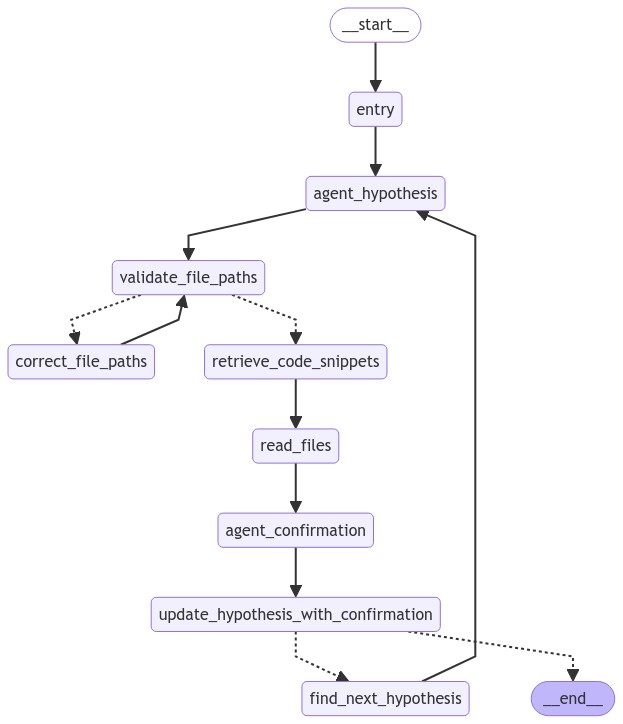
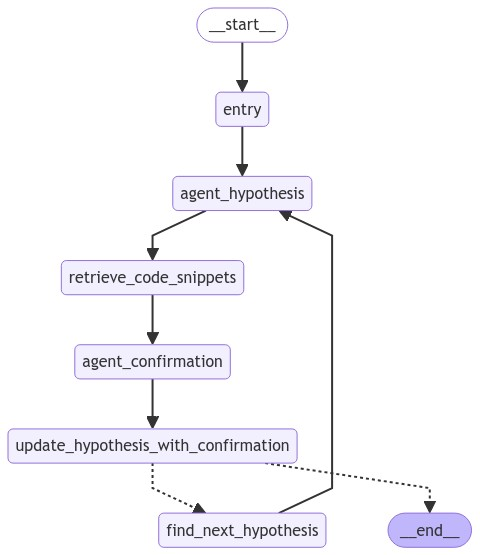
modify agent flow to use retriever

Changed region(s): [[0.0, 0.0, 1.0, 1.0], [0.8125, 0.8577, 0.8438, 0.8883]]

diff --git a/airflow/include/llm_analysis/nodes/retrieve_code_snippets.py b/airflow/include/llm_analysis/nodes/retrieve_code_snippets.py
@@ -22,14 +22,14 @@ from ..state_schema import State
 
 def retrieve_code_snippets(state: State):
     hypothesis_json = state["messages"][-1]
-    hypothesis_dict = json.loads(hypothesis_json)
-    hypothesis = hypothesis_dict["hypothesis"]
-    print(f"==>> hypothesis: {hypothesis}")
+    hypothesis_dict = json.loads(hypothesis_json.content)
+    queries = hypothesis_dict["queries"][:3] #! only use top 3 queries for now
     root_path = state["repo_root_path"]
 
-    #TODO: Cache documents
+    # TODO: Cache documents
+
     # Load and split documents
-    document_path = "/Users/minkijung/Documents/2PetProjects/ernest/backend/app/langchain/conditional_edges/llm"
+    document_path = root_path
     loader = DirectoryLoader(
         document_path, glob=["*.md", "*.py"], loader_cls=TextLoader, recursive=True
     )
@@ -45,32 +45,31 @@ def retrieve_code_snippets(state: State):
         language=Language.PYTHON,
         chunk_size=200,
         chunk_overlap=0,
-        keep_separator="end",
-        strip_whitespace=False
+        keep_separator=True,
+        strip_whitespace=False,
     )
     documents = python_splitter.split_documents(documents)
 
-    use_cache = False
-    if not use_cache:
+    embedding_path = f"./embedding_cache/{state['title']}.pkl"
+
+    if not os.path.exists(embedding_path):
         openAIEmbedding = OpenAIEmbeddings()
         embeddings = openAIEmbedding.embed_documents(
-                [document.page_content for document in documents]
-            )
+            [document.page_content for document in documents]
+        )
 
         # Save embeddings to a local file
-        embedding_file = "embeddings.pkl"
-        with open(embedding_file, "wb") as f:
+        with open(embedding_path, "wb") as f:
             pickle.dump(embeddings, f)
-        print(f"Embeddings saved to {embedding_file}")
+        print(f"Embeddings saved to {embedding_path}")
     else:
         # Load embeddings from the local file
-        embedding_file = "embeddings.pkl"
-        if os.path.exists(embedding_file):
-            with open(embedding_file, "rb") as f:
+        if os.path.exists(embedding_path):
+            with open(embedding_path, "rb") as f:
                 embeddings = pickle.load(f)
-            print(f"Embeddings loaded from {embedding_file}")
+            print(f"Embeddings loaded from {embedding_path}")
         else:
-            print(f"Embedding file {embedding_file} not found.")
+            print(f"Embedding file {embedding_path} not found.")
 
     print(f"Number of loaded embeddings: {len(embeddings)}")
 
@@ -88,8 +87,8 @@ def retrieve_code_snippets(state: State):
     cosine_similarities = []
     for source, docs_in_same_source in documents_by_source.items():
         cosine_similarities_per_source = {"source": source, "similarities": []}
-        print(f"Source: {source}")
-        print(f"Number of docs_in_same_source: {len(docs_in_same_source)}")
+        # print(f"Source: {source}")
+        # print(f"Number of docs_in_same_source: {len(docs_in_same_source)}")
         for i in range(len(docs_in_same_source) - 1):
             cosine_similarity_result = cosine_similarity(
                 [docs_in_same_source[i]["embedding"]],
@@ -126,30 +125,39 @@ def retrieve_code_snippets(state: State):
                 else:
                     merged_chunk += document[idx + 1]["content"]
             else:
-                documents_after_semantic_merging.append(Document(merged_chunk, metadata={"source": source}))
+                documents_after_semantic_merging.append(
+                    Document(merged_chunk, metadata={"source": source})
+                )
 
-    print(f"documents_after_semantic_merging: {len(documents_after_semantic_merging)}")
-    print(f"documents_after_semantic_merging: {documents_after_semantic_merging}")
+    # print(f"documents_after_semantic_merging: {len(documents_after_semantic_merging)}")
+    # print(f"documents_after_semantic_merging: {documents_after_semantic_merging}")
 
     # BM25
     bm25_retriever = BM25Retriever.from_documents(documents_after_semantic_merging)
-    bm25_retriever.k = 1
+    bm25_retriever.k = 2
 
     # FAISS
     embedding = OpenAIEmbeddings()
     faiss_vectorstore = FAISS.from_documents(
         documents_after_semantic_merging, embedding
     )
-    faiss_retriever = faiss_vectorstore.as_retriever(search_kwargs={"k": 1})
+    faiss_retriever = faiss_vectorstore.as_retriever(search_kwargs={"k": 2})
 
     ensemble_retriever = EnsembleRetriever(
         retrievers=[bm25_retriever, faiss_retriever], weights=[0.5, 0.5]
     )
+    retrieved_code_snippets = []
+    for query in queries:
+        result = ensemble_retriever.invoke(query)
+        retrieved_code_snippets.extend(result)
 
-    docs = ensemble_retriever.invoke("Check if the message is cutoff")
-    for doc in docs:
-        print("------------RESULT-------------")
-        print(doc.metadata["source"])
-        print(doc.page_content)
+    print(f"Retrieved {len(retrieved_code_snippets)} code snippets")
 
-    return
+    formatted_snippets = [
+        f"{document.metadata['source']}:\n{document.page_content}"
+        for document in retrieved_code_snippets
+    ]
+
+    return {
+        "retrieved_code_snippets": "\n\n\n".join(formatted_snippets)
+    }

diff --git a/airflow/include/llm_analysis/nodes/agent.py b/airflow/include/llm_analysis/nodes/agent.py
@@ -17,20 +17,20 @@ from ..common import llm, chat_model, output_parser
 from ..tools import tools
 
 from langchain_core.pydantic_v1 import BaseModel, Field
+from typing import List
 from langchain_core.tools import tool
 from langchain_core.runnables import Runnable, RunnableConfig, RunnableLambda
 
 
 class Hypothesis(BaseModel):
     """This is a Hypothesis of the repository. You must follow the order below when generating the properties
-    1. rationale 2. hypothesis 3. file_paths"""
+    1. rationale 2. hypothesis 3.queries_for_code_retrieval"""
 
-    file_paths: list[str] = Field(
-        default_factory=list,
-        description="List of file paths to examine. Should only contain paths to individual files, not directories. Also, don't pick jupyter notebooks!",
-    )
+    rationale: str = Field(description="The reason for the hypothesis and the queries to retreive codes for confirmation")
     hypothesis: str
-    rationale: str
+    queries: List[str] = Field(
+        description="A list of search queries used to retrieve relevant code snippets. These snippets will be used to verify the hypothesis. The retrieval process combines BM25 and embedding vector search techniques for improved accuracy. Order the queries from most imporant to least important."
+    )
 
 
 def agent_hypothesis(state: State):
@@ -39,7 +39,7 @@ def agent_hypothesis(state: State):
     system_message = SystemMessage(
         content="""
         You are a sesoned software engineer tasked to understand the provided repository. It includes meta data such as title, description, directory tree, and packages used. 
-        Based on the information, make a hypothesis about the project and file pathes that you need to look into to confirm that hypothesis.
+        Based on the information, make a hypothesis about the project and queries that could be used to retrieve relevant code snippets to validate your hypothesis. The queries are english sentences that describe functionality or patterns in the code that you need to look at to confirm the hypothesis. For example, if your hypothsis includes "this repo contains third partry authentications, then queries could be "code for third party authentication", "login with google" etc.
         """
     )
 
@@ -87,7 +87,7 @@ def agent_confirmation(state: State):
         Hypothesis: {hypothesis}
         Rationale: {rationale}
         Files to refer:
-        {opened_files}
+        {retrieved_code_snippets}
         """
     )
 
@@ -97,7 +97,7 @@ def agent_confirmation(state: State):
         {
             "rationale": hypothesis_dict["rationale"],
             "hypothesis": hypothesis_dict["hypothesis"],
-            "opened_files": json.dumps(state["opened_files"], indent=2),
+            "retrieved_code_snippets": state["retrieved_code_snippets"],
         }
     )
 

diff --git a/airflow/include/llm_analysis/main_graph.py b/airflow/include/llm_analysis/main_graph.py
@@ -29,28 +29,10 @@ g.set_entry_point("entry")
 g.add_edge("entry", n(agent_hypothesis))
 
 g.add_node(n(agent_hypothesis), agent_hypothesis)
-g.add_edge(n(agent_hypothesis), n(validate_file_paths))
-
-g.add_node(n(validate_file_paths), validate_file_paths)
-g.add_conditional_edges(
-    n(validate_file_paths),
-    lambda state: (
-        n(correct_file_paths)
-        if len(state["invalid_paths"]) > 0 and state["validate_count"] < 3
-        else n(retrieve_code_snippets)
-    ),
-    to_path_map([n(correct_file_paths), n(retrieve_code_snippets)]),
-)
-
-g.add_node(n(correct_file_paths), correct_file_paths)
-g.add_edge(n(correct_file_paths), n(validate_file_paths))
+g.add_edge(n(agent_hypothesis), n(retrieve_code_snippets))
 
 g.add_node(n(retrieve_code_snippets), retrieve_code_snippets)
-g.add_edge(n(retrieve_code_snippets), n(read_files))
-
-g.add_node(n(read_files), read_files)
-g.add_edge(n(read_files), n(agent_confirmation))
-
+g.add_edge(n(retrieve_code_snippets), n(agent_confirmation))
 
 g.add_node(n(agent_confirmation), agent_confirmation)
 g.add_edge(n(agent_confirmation), n(update_hypothesis_with_confirmation))

diff --git a/airflow/run_graph.py b/airflow/run_graph.py
@@ -5,7 +5,7 @@ from include.llm_analysis.main_graph import langgraph_app
 result = langgraph_app.invoke(
     {
         "title": "Ernest",
-        "repo_root_path": "/Users/minkijung/Documents/2PetProjects/ernest",
[1 lines of base64/hex data omitted]
         "repo_description": "An AI-Powered Review Platform That Gathers Information Through Conversations",
         "packages_used": [
             "datasets",

diff --git a/airflow/include/llm_analysis/state_schema.py b/airflow/include/llm_analysis/state_schema.py
@@ -29,6 +29,8 @@ class State(TypedDict):
     analysis_results: Annotated[List[dict], merge_lists] = []
     final_hypotheses: Annotated[List[str], merge_lists] = []
 
+    retrieved_code_snippets: str
+
     def __init__(self):
         self.analysis_results = []
         self.valid_paths = []
